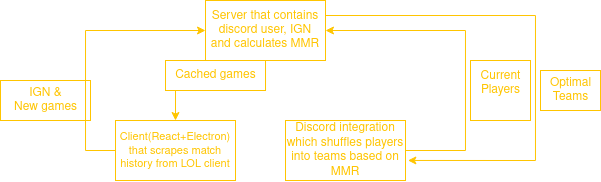
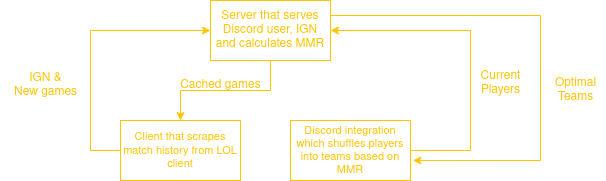
Updated flowcharts

Changed region(s): [[0.0, 0.0, 1.0, 1.0]]

diff --git a/README.md b/README.md
@@ -3,30 +3,28 @@
 <img src="images/logo.png"/>
 </p>  
 
-  
+
 ## What is this?
 This is a project inspired by a heavy loss while playing customs in league of legends. The idea is to create fair teams, without taking rank into account(cuz that's boring and we're antiestablishmentarians 🗿♿🥶).
 
 
 ## Mechanism
-  
-![Mechanism](images/Mechanism.png)
 
-CORRECTION, the client will be just a simple exe file that one runs once they want/finish a game. Lol.
+![Mechanism](images/Mechanism.png)
 
 ## Registration
 A user registers like so:
   1. Opens the client of custoMM
   2. Tells the designated bot that they want to register with their IGN(the bot assumes EUNE unless changed in the code) (e.g. !register leomesipicha)
   3. The client prompts the user if they really want to proceed, showing the discord username which initiated the registration. When a username is registered, it cannot be registered again(do not worry, even if you change your name in either LoL or Discord you will still be registered). You can still lend out your account, however, using the [guest mode](#guest-mode).
-   
+
 Here's a flowchart explaining the technical stuff about this process:  
-  
+
 ![Registration](images/Registration.png)
 
 ## Guest mode
 [Currently work in progress](https://git.confest.im/boyan_k/custoMM/issues/5#issue-17)
-  
-  
+
+
 If you want to use somebody else's account while playing customs, you can temporarily claim it, which will make the actual owner not gain MMR from the current game. That's about it. You, as the temporary player, do receive some MMR, however it is reduced by 50%, bc god damn get your own account wtf.
 
